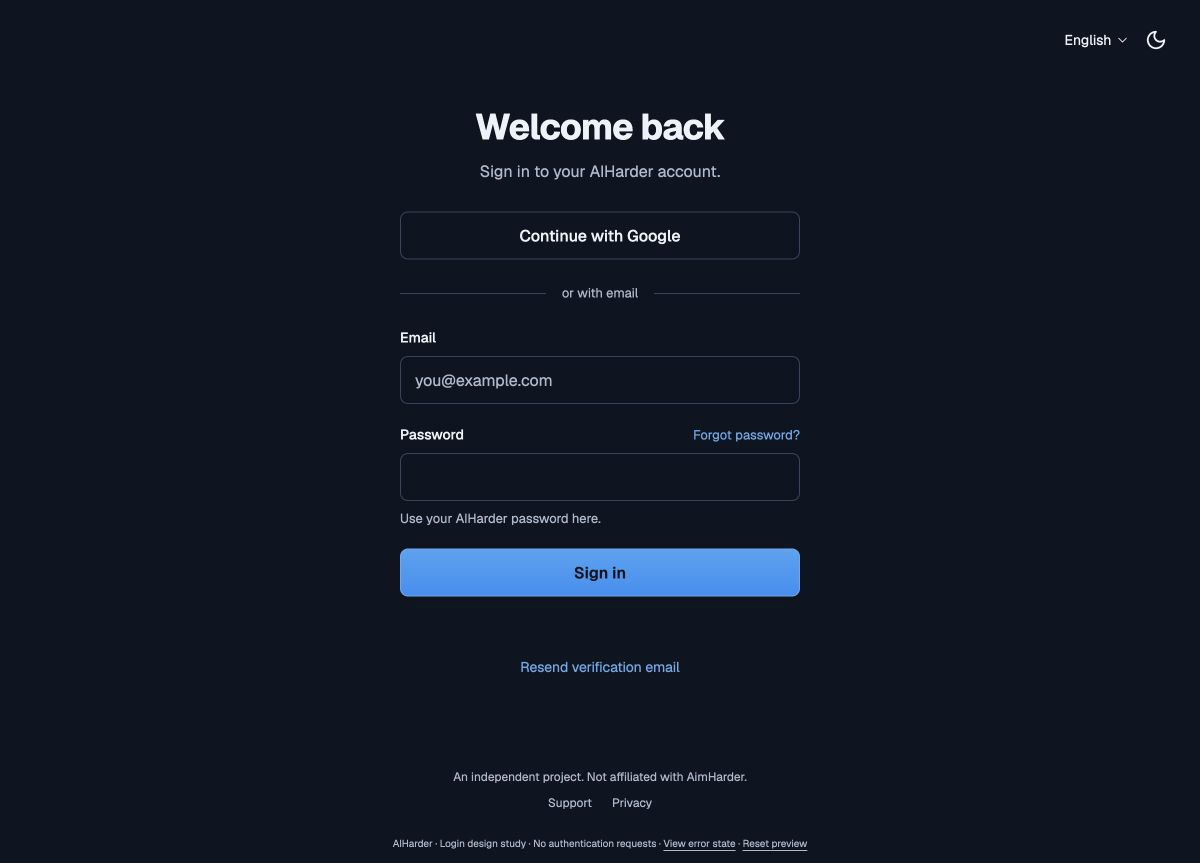
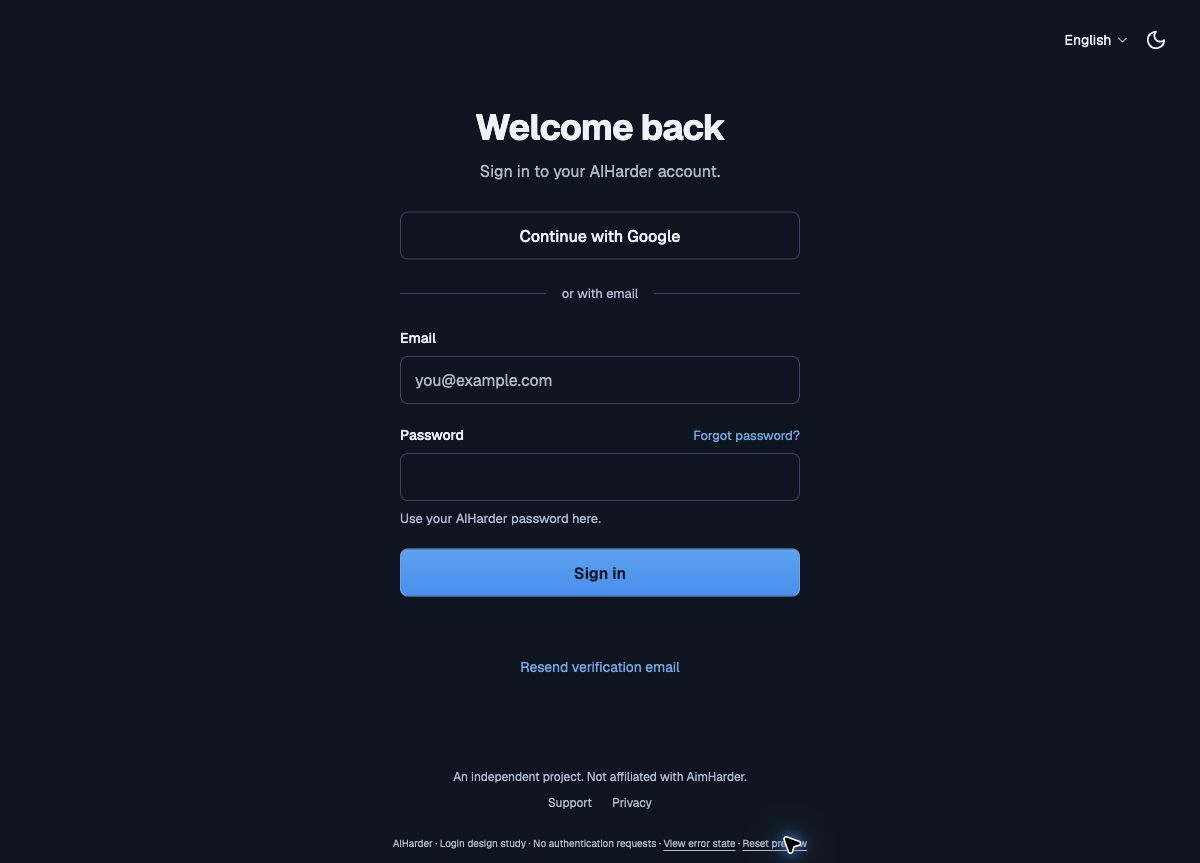
Keep login design form disabled until local handlers are ready

diff --git a/design/home-study/login-study.html b/design/home-study/login-study.html
@@ -1,3 +1,3 @@
 <!doctype html><html lang="en" data-theme="light"><head><meta charset="utf-8"><meta name="viewport" content="width=device-width,initial-scale=1"><title>Sign in — AIHarder</title><script>const preference=new URLSearchParams(location.search).get('theme')||'system';document.documentElement.dataset.theme=preference==='dark'||(preference==='system'&&matchMedia('(prefers-color-scheme:dark)').matches)?'dark':'light';</script><link rel="stylesheet" href="privacy-study.css?v=2"><link rel="stylesheet" href="footer-study.css?v=6"><link rel="stylesheet" href="public-navigation.css?v=1"><link rel="stylesheet" href="login-study.css?v=2"></head><body class="auth-page"><div class="auth-preferences" aria-label="Appearance and language"><select class="language-selector" id="language" aria-label="Language" data-locale-options><option value="en">English</option><option value="es">Español</option></select><button class="appearance-control" id="appearance" type="button" aria-label="Appearance"><i class="icon" id="appearance-icon" aria-hidden="true" style="--icon:url('./assets/lucide/monitor.svg')"></i></button></div>
-<main class="login-band"><section class="login-form" aria-labelledby="login-title"><h1 id="login-title">Welcome back</h1><p class="login-intro">Sign in to your AIHarder account.</p><button class="google-button" id="google-signin" type="button">Continue with Google</button><div class="login-divider"><span>or with email</span></div><form id="login-form" novalidate><div class="login-field"><label for="email">Email</label><input id="email" name="email" type="email" autocomplete="username" placeholder="you@example.com" required aria-describedby="form-feedback"></div><div class="login-field"><div class="password-label"><label for="password">Password</label><button class="auth-link" type="button" id="forgot-password">Forgot password?</button></div><input id="password" name="password" type="password" autocomplete="current-password" required aria-describedby="password-help form-feedback"><p id="password-help">Use your AIHarder password here.</p></div><button class="primary login-submit" type="submit" id="login-submit"><span>Sign in</span></button><p class="form-feedback" id="form-feedback" role="status" aria-live="polite"></p></form><button class="auth-link resend-link" type="button" id="resend-verification">Resend verification email</button></section></main><footer class="auth-footer"><p>An independent project. Not affiliated with AimHarder.</p><nav aria-label="Support and privacy"><a href="mailto:support@aiharder.link">Support</a><a data-privacy href="privacy-study.html">Privacy</a></nav></footer>
-<div class="privacy-review"><span>AIHarder · Login design study · No authentication requests</span> · <a href="?state=error" id="error-preview">View error state</a> · <a href="?" id="reset-preview">Reset preview</a></div><dialog class="footer-notice" id="login-notice" aria-labelledby="notice-title"><form method="dialog"><h2 id="notice-title">Design prototype</h2><p></p><button class="primary" type="submit">Close</button></form></dialog><script type="module" src="login-study.js?v=2"></script></body></html>
+<main class="login-band"><section class="login-form" aria-labelledby="login-title"><h1 id="login-title">Welcome back</h1><p class="login-intro">Sign in to your AIHarder account.</p><button class="google-button" id="google-signin" type="button">Continue with Google</button><div class="login-divider"><span>or with email</span></div><form id="login-form" novalidate><div class="login-field"><label for="email">Email</label><input id="email" disabled type="email" autocomplete="username" placeholder="you@example.com" required aria-describedby="form-feedback"></div><div class="login-field"><div class="password-label"><label for="password">Password</label><button class="auth-link" type="button" id="forgot-password">Forgot password?</button></div><input id="password" disabled type="password" autocomplete="current-password" required aria-describedby="password-help form-feedback"><p id="password-help">Use your AIHarder password here.</p></div><button class="primary login-submit" type="submit" id="login-submit" disabled><span>Sign in</span></button><p class="form-feedback" id="form-feedback" role="status" aria-live="polite">Loading preview…</p></form><button class="auth-link resend-link" type="button" id="resend-verification">Resend verification email</button></section></main><footer class="auth-footer"><p>An independent project. Not affiliated with AimHarder.</p><nav aria-label="Support and privacy"><a href="mailto:support@aiharder.link">Support</a><a data-privacy href="privacy-study.html">Privacy</a></nav></footer>
+<div class="privacy-review"><span>AIHarder · Login design study · No authentication requests</span> · <a href="?state=error" id="error-preview">View error state</a> · <a href="?" id="reset-preview">Reset preview</a></div><dialog class="footer-notice" id="login-notice" aria-labelledby="notice-title"><form method="dialog"><h2 id="notice-title">Design prototype</h2><p></p><button class="primary" type="submit">Close</button></form></dialog><script type="module" src="login-study.js?v=3"></script></body></html>

diff --git a/design/home-study/login-study.js b/design/home-study/login-study.js
@@ -26,3 +26,7 @@ form.addEventListener('submit',event=>{
 if(new URLSearchParams(location.search).get('state')==='error')message('We couldn’t sign you in. Check your details and try again.','error');
 const updatePreviewLinks=()=>{for(const [id,state]of [['error-preview','error'],['reset-preview','']]){const url=new URL(location.href);url.searchParams.set('lang',lang);if(state)url.searchParams.set('state',state);else url.searchParams.delete('state');document.querySelector('#'+id).href=url;}};
 updatePreviewLinks();document.querySelector('#appearance').addEventListener('click',updatePreviewLinks);
+
+// Enable only after all local submit handlers are installed; HTML fails closed.
+if(new URLSearchParams(location.search).get('state')!=='error')message('');
+email.disabled=password.disabled=submit.disabled=false;

diff --git a/design/home-study/README.md b/design/home-study/README.md
@@ -1,6 +1,6 @@
 # AIHarder — public home study
 
-**Current bilingual/login checkpoint — 2026-11-03:** The owner authorized Spanish desktop propagation. Home, Privacy and Login now have **English/Spanish × Light/Dark** editable Pen pages (12 total), with working `lang` and `theme` navigation in HTML. This supersedes earlier English-only/six-frozen-variant notes below; the four existing mobile pages remain frozen. Login uses a separate centered authentication shell, no public header, no GitHub and a quiet text footer without borders. Privacy has no breadcrumb and its index retains normal-weight labels. [Login study, references and current matrix](login-study.md) · [Checks](login-checks.json) · [Login EN](https://mini.taild6f227.ts.net:8443/aimharder-home-95/home-study/login-study.html?lang=en&theme=dark&v=auth2) · [Login ES](https://mini.taild6f227.ts.net:8443/aimharder-home-95/home-study/login-study.html?lang=es&theme=dark&v=auth2) · [Home ES](https://mini.taild6f227.ts.net:8443/aimharder-home-95/home-study/hero-motion-prototype.html?lang=es&theme=light&reply=long&v=es2). This remains a design prototype: no actual sign-in, Google request or mail is sent.
+**Current bilingual/login checkpoint — 2026-11-03:** The owner authorized Spanish desktop propagation. Home, Privacy and Login now have **English/Spanish × Light/Dark** editable Pen pages (12 total), with working `lang` and `theme` navigation in HTML. This supersedes earlier English-only/six-frozen-variant notes below; the four existing mobile pages remain frozen. Login uses a separate centered authentication shell, no public header, no GitHub and a quiet text footer without borders. Privacy has no breadcrumb and its index retains normal-weight labels. [Login study, references and current matrix](login-study.md) · [Checks](login-checks.json) · [Login EN](https://mini.taild6f227.ts.net:8443/aimharder-home-95/home-study/login-study.html?lang=en&theme=dark&v=auth3) · [Login ES](https://mini.taild6f227.ts.net:8443/aimharder-home-95/home-study/login-study.html?lang=es&theme=dark&v=auth3) · [Home ES](https://mini.taild6f227.ts.net:8443/aimharder-home-95/home-study/hero-motion-prototype.html?lang=es&theme=light&reply=long&v=es2). This remains a design prototype: no actual sign-in, Google request or mail is sent. Initial credential controls fail closed until local handlers are ready; the review finding and before/after browser probe are recorded in the Login study.
 
 **Privacy checkpoint — 2026-11-03:** Added the English desktop Light/Dark Privacy design in HTML and Pen, with anchored contents, a readable document column, credential-handling summary, contact link and cycling appearance control. The later refinement removes the breadcrumb and keeps index labels at weight 400 in every state, preventing selection-related wrapping. The home footer now opens this draft instead of a placeholder dialog. How to also gains the requested lower blue 1px border. [Study, sources and limits](privacy-study.md) · [Checks](privacy-checks.json) · [Open Privacy](https://mini.taild6f227.ts.net:8443/aimharder-home-95/home-study/privacy-study.html?theme=light). Copy is a review draft, not an approved/published policy. Login and private pages remain subsequent work; six other native home variants remain frozen. Earlier checkpoints below describe their delivery-time scope.
 

diff --git a/design/home-study/login-study.md b/design/home-study/login-study.md
@@ -51,6 +51,12 @@ A browser console check caught an introduced translation-helper/timeline-name co
 
 [Browser EN Dark](previews/login/en-dark.jpg) · [EN Light](previews/login/en-light.jpg) · [ES Dark](previews/login/es-dark.jpg) · [ES Light](previews/login/es-light.jpg) · [Home ES](previews/spanish-public/home-es-light.jpg) · [Privacy ES](previews/spanish-public/privacy-es-light.jpg).
 
+## Review correction: fail-closed form readiness
+
+The standards review found an unsafe native fallback: the initial HTML had enabled, named email/password fields and default GET submission before the asynchronous module installed its handler. The HTML now starts with both inputs and submit disabled, has no credential field names, and shows a loading status. Only the final statement after handler installation enables the form. A failed script or Spanish-copy fetch leaves it disabled. This enforces the existing no-request prototype boundary; it does not change production authentication.
+
+A browser probe compared temporary scriptless copies before/after: enabled named fields changed from `email,password` to none, and all three controls changed from enabled to disabled. No field values or native submissions were used. The browser read-only scope did not expose a usable FormData constructor, so the probe inspected the DOM-backed enabled named controls instead. The fixtures were removed after verification. Normal English/Spanish initialization re-enables all controls, clears the loading message, and Spanish empty-submit validation still focuses email. Evidence is in `nativeSubmissionSafety` in [checks](login-checks.json). The original finding remains documented rather than retroactively described as a pass.
+
 ## Limits and next work
 
 This is a throwaway design prototype, not production authentication or an account implementation. No API contract, custody, access, retention, Google configuration, email provider or deployment changed; existing ADRs are unaffected. Login/translation checks do not prove real provider interoperability, credential validation, recovery email delivery or private-page authorization. Recovery/verification pages and private screens remain subsequent design work. Privacy copy still needs owner/legal review before publication. Earlier unresolved nested Privacy bounds-visitor warnings remain; complete native renders/content audits are not a clean structural-visitor or pixel-identical browser/native claim. Do not repeat those diagnostics as a new pass. Source syntax, local links and existing asset hashes are verified separately from owner visual acceptance.

diff --git a/docs/product-experience.md b/docs/product-experience.md
@@ -171,3 +171,7 @@ The remaining work falls into these areas:
 These are follow-up specification/delivery areas, not additional accepted features. At the owner's explicit `to-spec` request, they are now consolidated in parent #103. The design handoff and technical deliveries resolve the remaining concrete contracts within that specification. Apart from existing #95/#92, further implementation packages have not yet been published as separate child tickets. Existing verified documentation corrections in #92 can proceed independently of final visual decisions.
 
 The proposed primary test boundary is the existing public Worker HTTP interface, consumed by browser journeys and an actual MCP SDK, with external AimHarder/Google/mail responses simulated in automated tests. The specification records existing portal/auth/connection/lifecycle test prior art, visual/accessibility review, separate actual-client/provider evidence and local-package/document checks. The skill's test-boundary check was presented to the owner asynchronously; an unanswered check is not treated as approval or execution evidence. Incorporate any subsequent correction before implementation.
+
+### Login preview readiness correction — 2026-11-03
+
+The design prototype now disables credential fields and submit in its initial HTML, removes credential field names, and enables the form only after local submit handlers are installed. A scriptless before/after browser probe verified the previous unsafe native GET fallback and the corrected disabled state without entering or submitting credentials. This enforces the existing design-only boundary; production authentication and ADR decisions are unchanged. See [Login study](../design/home-study/login-study.md#review-correction-fail-closed-form-readiness).
